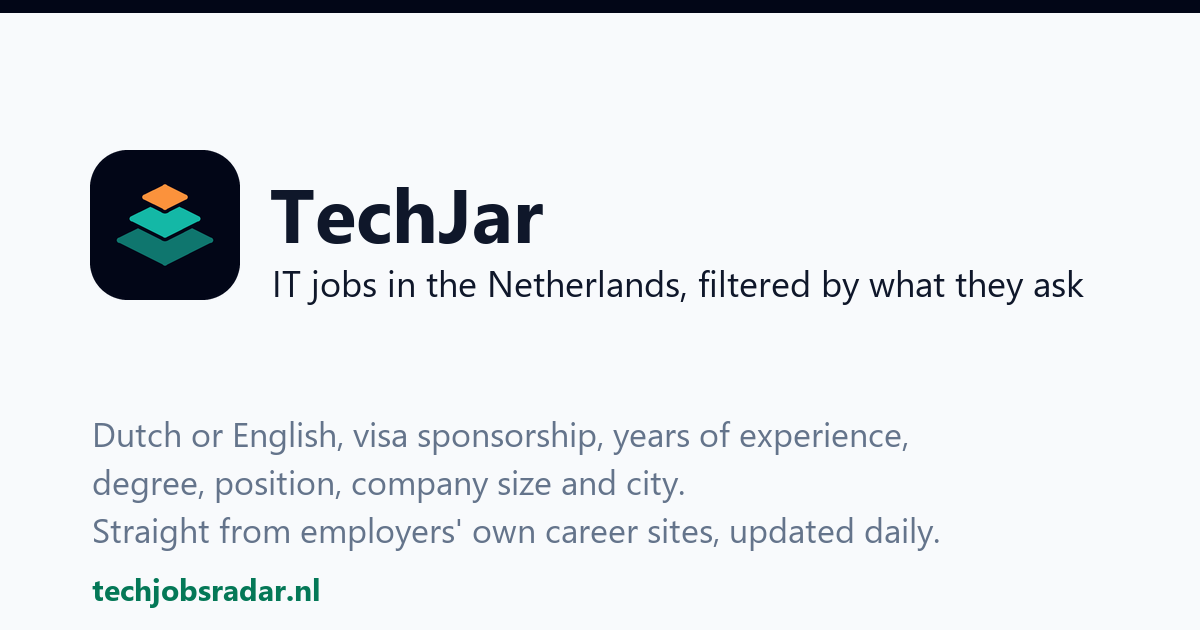
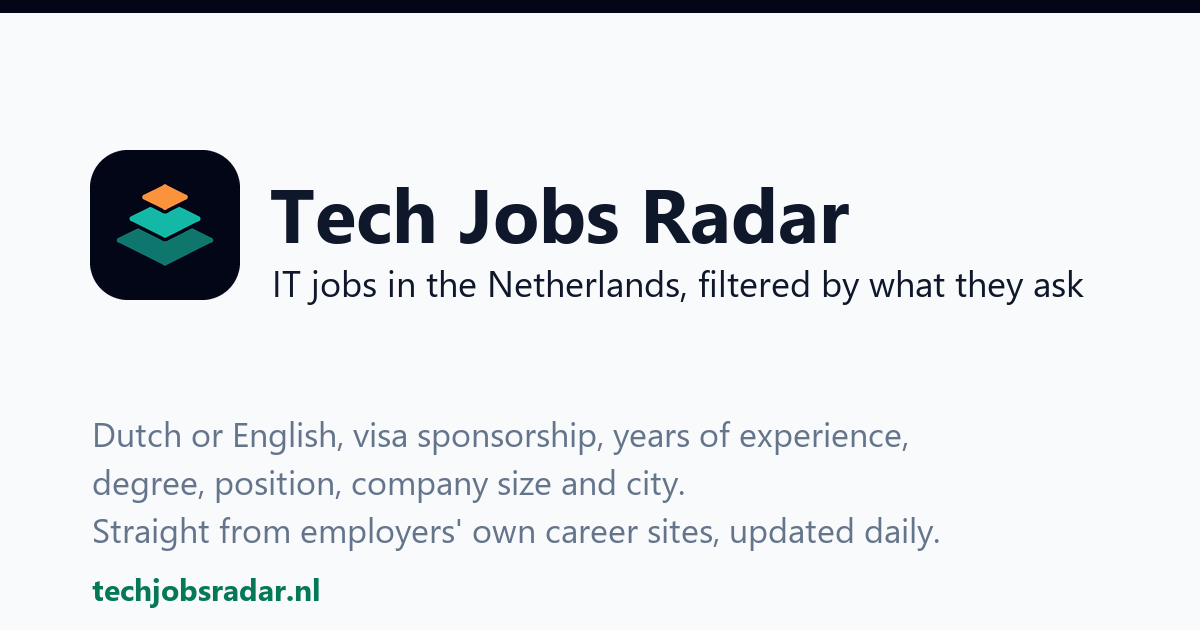
Rename the site back to Tech Jobs Radar, matching the domain (TechJar kept as an alias); the name wraps onto two lines on phones

Changed region(s): [[0.37, 0.3016, 0.7092, 0.3921]]

diff --git a/deploy/helm/radar/files/maintenance.html b/deploy/helm/radar/files/maintenance.html
@@ -5,7 +5,7 @@
 <meta name="viewport" content="width=device-width, initial-scale=1">
 <meta name="robots" content="noindex">
 <meta http-equiv="refresh" content="60">
-<title>TechJar is being updated</title>
+<title>Tech Jobs Radar is being updated</title>
 <style>
   :root { --bg: #f8fafc; --card: #ffffff; --ink: #0f172a; --muted: #64748b; --line: #e2e8f0; --accent: #047857; --on-accent: #ffffff; --logo-edge: #020617; }
   @media (prefers-color-scheme: dark) {
@@ -31,7 +31,7 @@
 <main>
   <div class="brand">
     <svg class="logo" aria-hidden="true" viewBox="0 0 32 32"><rect x=".5" y=".5" width="31" height="31" rx="8" fill="#020617" stroke="var(--logo-edge, #020617)"/><g stroke-width="1.3" stroke-linejoin="round"><path d="M6.29 19.20L8.24 21.15L6.29 23.10L4.34 21.15Z" fill="#1aa3bc" stroke="#1aa3bc"/><path d="M12.76 19.20L14.71 21.15L12.76 23.10L10.81 21.15Z" fill="#1aa3bc" stroke="#1aa3bc"/><path d="M19.24 19.20L21.19 21.15L19.24 23.10L17.29 21.15Z" fill="#a5f3fc" stroke="#a5f3fc"/><path d="M25.71 19.20L27.66 21.15L25.71 23.10L23.76 21.15Z" fill="#1aa3bc" stroke="#1aa3bc"/><path d="M9.53 15.97L11.48 17.92L9.53 19.87L7.58 17.92Z" fill="#22a596" stroke="#22a596"/><path d="M16.0 15.97L17.95 17.92L16.0 19.87L14.05 17.92Z" fill="#99f6e4" stroke="#99f6e4"/><path d="M22.47 15.97L24.42 17.92L22.47 19.87L20.52 17.92Z" fill="#22a596" stroke="#22a596"/><path d="M12.76 12.73L14.71 14.68L12.76 16.63L10.81 14.68Z" fill="#28a676" stroke="#28a676"/><path d="M19.24 12.73L21.19 14.68L19.24 16.63L17.29 14.68Z" fill="#a7f3d0" stroke="#a7f3d0"/><path d="M16.0 7.70L17.95 9.65L16.0 11.60L14.05 9.65Z" fill="#fb923c" stroke="#fb923c"/></g></svg>
-    TechJar
+    Tech Jobs Radar
   </div>
   <div lang="en">
     <h1>Being updated</h1>
@@ -52,7 +52,7 @@
       lang = /^\/nl(\/|$)/.test(location.pathname) || (navigator.language || "").toLowerCase().indexOf("nl") === 0 ? "nl" : "en";
     }
     document.documentElement.lang = lang;
-    if (lang === "nl") document.title = "TechJar wordt bijgewerkt";
+    if (lang === "nl") document.title = "Tech Jobs Radar wordt bijgewerkt";
   })();
   // reload as soon as the site answers again
   (function check() {

diff --git a/web/src/app.css b/web/src/app.css
@@ -151,6 +151,10 @@
   .topbar { @apply flex h-16 items-center justify-between gap-3; }
   .brand { @apply flex min-w-0 items-center gap-3 text-ink no-underline; }
   .brand h1, .brand b { @apply truncate font-display text-[1.45rem] font-semibold; }
+  /* on a phone the three-word name wraps onto two lines instead of being cut off */
+  @media (max-width: 480px) {
+    .brand h1, .brand b { @apply text-[1.05rem] leading-[1.1]; white-space: normal; overflow: visible; text-overflow: clip; max-width: 6.5em; }
+  }
   .brand:hover h1, .brand:hover b { @apply text-accent; }
   .logo { @apply size-10 shrink-0; border-radius: 25%; box-shadow: var(--logo-glow); }  /* a crisp edge against the header */
   .topbar-right { @apply flex items-center gap-2.5; }

diff --git a/web/about.html b/web/about.html
@@ -14,7 +14,7 @@
 <link rel="apple-touch-icon" href="/static/apple-touch-icon.png?v=7">
 <link rel="preload" href="/static/fonts/instrument-sans-latin.woff2" as="font" type="font/woff2" crossorigin>
 <link rel="preload" href="/static/fonts/fraunces-latin.woff2" as="font" type="font/woff2" crossorigin>
-<link rel="stylesheet" href="/static/app.css?v=32">
+<link rel="stylesheet" href="/static/app.css?v=33">
 <style>html[lang="nl"] .en, html[lang="en"] .nl { display: none !important; }</style>
 <script src="/static/theme.js?v=2"></script>
 </head>

diff --git a/web/feedback.html b/web/feedback.html
@@ -10,7 +10,7 @@
 <link rel="apple-touch-icon" href="/static/apple-touch-icon.png?v=7">
 <link rel="preload" href="/static/fonts/instrument-sans-latin.woff2" as="font" type="font/woff2" crossorigin>
 <link rel="preload" href="/static/fonts/fraunces-latin.woff2" as="font" type="font/woff2" crossorigin>
-<link rel="stylesheet" href="/static/app.css?v=32">
+<link rel="stylesheet" href="/static/app.css?v=33">
 <style>html[lang="nl"] .en, html[lang="en"] .nl { display: none !important; }</style>
 <script src="/static/theme.js?v=2"></script>
 </head>

diff --git a/web/login.html b/web/login.html
@@ -10,7 +10,7 @@
 <link rel="apple-touch-icon" href="/static/apple-touch-icon.png?v=7">
 <link rel="preload" href="/static/fonts/instrument-sans-latin.woff2" as="font" type="font/woff2" crossorigin>
 <link rel="preload" href="/static/fonts/fraunces-latin.woff2" as="font" type="font/woff2" crossorigin>
-<link rel="stylesheet" href="/static/app.css?v=32">
+<link rel="stylesheet" href="/static/app.css?v=33">
 <style>html[lang="nl"] .en, html[lang="en"] .nl { display: none !important; }</style>
 <script src="/static/theme.js?v=2"></script>
 </head>

diff --git a/web/privacy.html b/web/privacy.html
@@ -10,7 +10,7 @@
 <link rel="apple-touch-icon" href="/static/apple-touch-icon.png?v=7">
 <link rel="preload" href="/static/fonts/instrument-sans-latin.woff2" as="font" type="font/woff2" crossorigin>
 <link rel="preload" href="/static/fonts/fraunces-latin.woff2" as="font" type="font/woff2" crossorigin>
-<link rel="stylesheet" href="/static/app.css?v=32">
+<link rel="stylesheet" href="/static/app.css?v=33">
 <style>html[lang="nl"] .en, html[lang="en"] .nl { display: none !important; }</style>
 <script src="/static/theme.js?v=2"></script>
 </head>

diff --git a/web/analytics.html b/web/analytics.html
@@ -10,7 +10,7 @@
 <link rel="apple-touch-icon" href="/static/apple-touch-icon.png?v=7">
 <link rel="preload" href="/static/fonts/instrument-sans-latin.woff2" as="font" type="font/woff2" crossorigin>
 <link rel="preload" href="/static/fonts/fraunces-latin.woff2" as="font" type="font/woff2" crossorigin>
-<link rel="stylesheet" href="/static/app.css?v=36">
+<link rel="stylesheet" href="/static/app.css?v=37">
 <script src="/static/vendor/chart.umd.min.js"></script>
 <script src="/static/theme.js?v=2"></script>
 </head>

diff --git a/web/companies.html b/web/companies.html
@@ -16,7 +16,7 @@
 <meta name="twitter:card" content="summary_large_image">
 <link rel="preload" href="/static/fonts/instrument-sans-latin.woff2" as="font" type="font/woff2" crossorigin>
 <link rel="preload" href="/static/fonts/fraunces-latin.woff2" as="font" type="font/woff2" crossorigin>
-<link rel="stylesheet" href="/static/app.css?v=32">
+<link rel="stylesheet" href="/static/app.css?v=33">
 <script type="application/ld+json">{{JSONLD}}</script>
 <script src="/static/theme.js?v=2"></script>
 </head>

diff --git a/web/company.html b/web/company.html
@@ -20,7 +20,7 @@
 <meta name="twitter:card" content="summary_large_image">
 <link rel="preload" href="/static/fonts/instrument-sans-latin.woff2" as="font" type="font/woff2" crossorigin>
 <link rel="preload" href="/static/fonts/fraunces-latin.woff2" as="font" type="font/woff2" crossorigin>
-<link rel="stylesheet" href="/static/app.css?v=32">
+<link rel="stylesheet" href="/static/app.css?v=33">
 <script type="application/ld+json">{{JSONLD}}</script>
 <script src="/static/theme.js?v=2"></script>
 </head>

diff --git a/web/landing.html b/web/landing.html
@@ -25,7 +25,7 @@
 <meta name="twitter:card" content="summary_large_image">
 <link rel="preload" href="/static/fonts/instrument-sans-latin.woff2" as="font" type="font/woff2" crossorigin>
 <link rel="preload" href="/static/fonts/fraunces-latin.woff2" as="font" type="font/woff2" crossorigin>
-<link rel="stylesheet" href="/static/app.css?v=32">
+<link rel="stylesheet" href="/static/app.css?v=33">
 <script type="application/ld+json">{{JSONLD}}</script>
 <script src="/static/theme.js?v=2"></script>
 </head>

diff --git a/web/report.html b/web/report.html
@@ -23,7 +23,7 @@
 <meta name="twitter:card" content="summary_large_image">
 <link rel="preload" href="/static/fonts/instrument-sans-latin.woff2" as="font" type="font/woff2" crossorigin>
 <link rel="preload" href="/static/fonts/fraunces-latin.woff2" as="font" type="font/woff2" crossorigin>
-<link rel="stylesheet" href="/static/app.css?v=46">
+<link rel="stylesheet" href="/static/app.css?v=47">
 <script type="application/ld+json">{{JSONLD}}</script>
 <script src="/static/theme.js?v=2"></script>
 </head>

diff --git a/web/job.html b/web/job.html
@@ -24,7 +24,7 @@
 <meta name="twitter:card" content="summary_large_image">
 <link rel="preload" href="/static/fonts/instrument-sans-latin.woff2" as="font" type="font/woff2" crossorigin>
 <link rel="preload" href="/static/fonts/fraunces-latin.woff2" as="font" type="font/woff2" crossorigin>
-<link rel="stylesheet" href="/static/app.css?v=32">
+<link rel="stylesheet" href="/static/app.css?v=33">
 {{JSONLD}}
 <script src="/static/theme.js?v=2"></script>
 </head>
